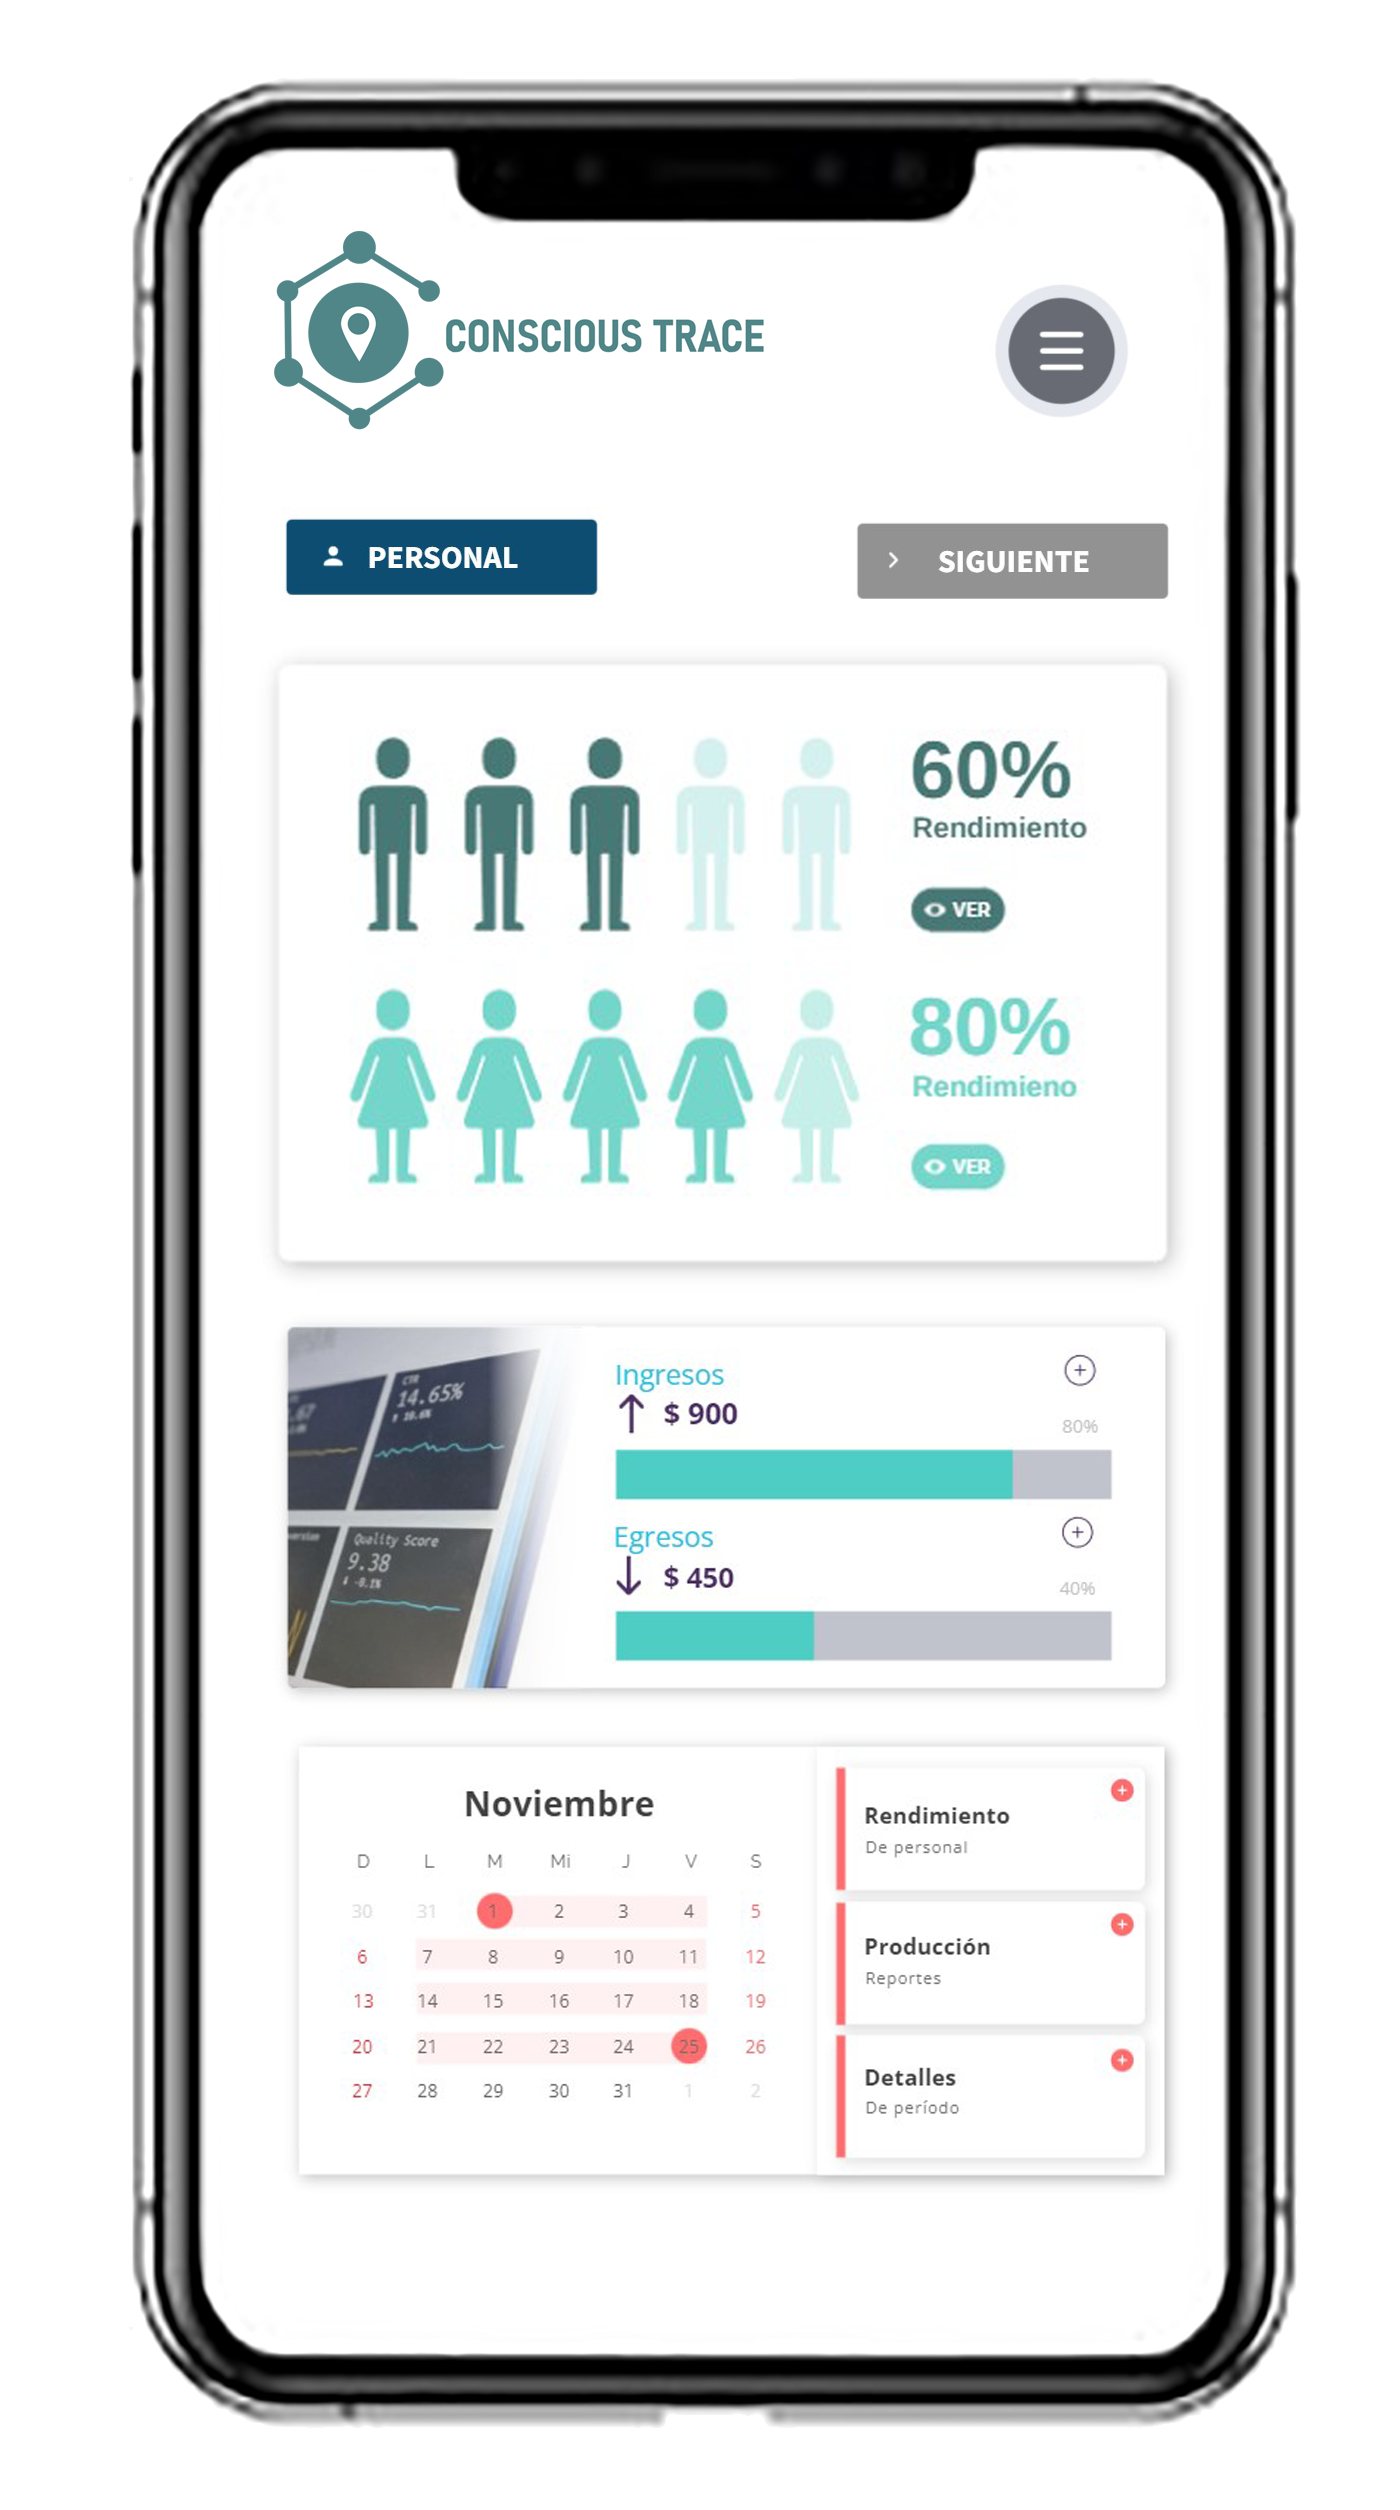
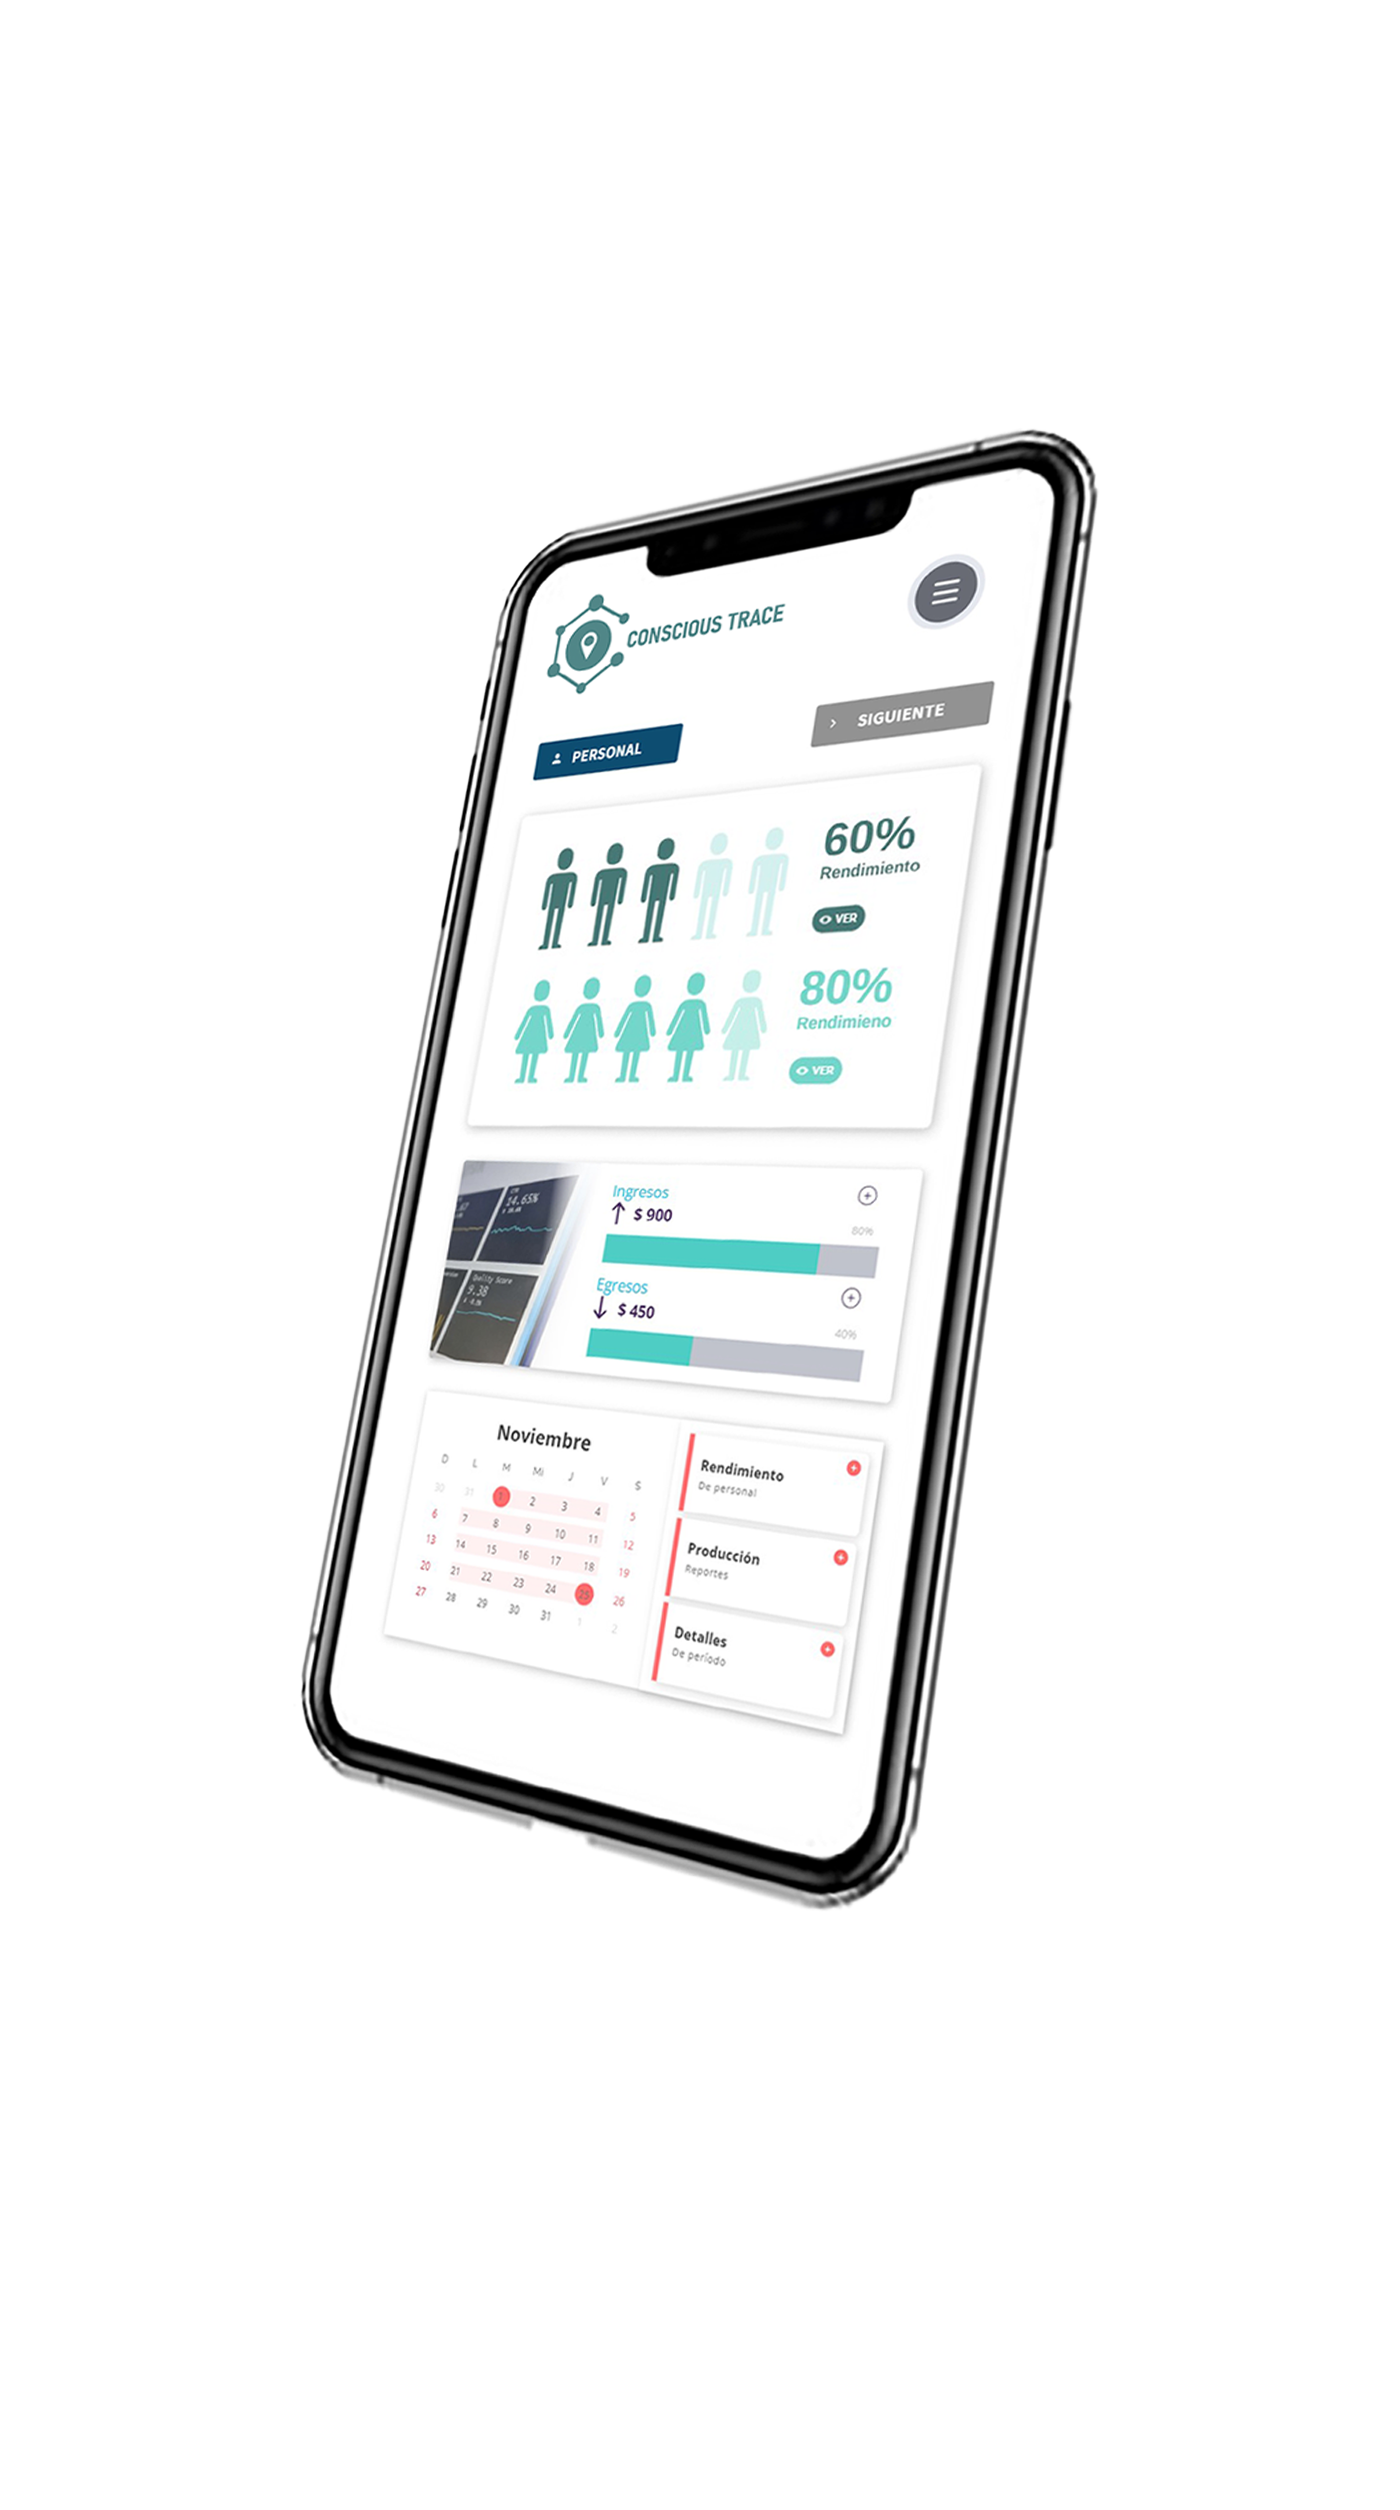
terminado, falta resposive y algunos estilos

Changed region(s): [[0.0921, 0.0311, 0.9521, 0.9633], [0.4607, 0.808, 0.5221, 0.839]]

diff --git a/index.html b/index.html
@@ -34,21 +34,87 @@
             <button class="contact-button">¡Contactanos!</button>
           </div>
           <div>
-            <img class="celular" src="./img/cel.png" alt="celular">
+            <img class="celular" src="./img/cel2.png" alt="celular">
           </div>
         </article>
 
+        <!--Inicio nosotros-->
         <article id="nosotros">
-          <h2 class="conocenos">¡Conocenos un poco más!</h2>
-          <img class="medium nosotrosimg" src="img/nosotros.png" alt="nosotros">  
-            <p class="nosotros-p">
-              Somos una startup que inició en el 2020 haciendo trazabilidad sobre su propia línea de productos outdoor sustentables; comunicando quién, dónde, cuándo y con que materiales se realizaron los productos.
-            </p>
-            <p>
-              Creemos que mejores sociedades se construyen con más transparencia y la información es la herramienta que permite visibilizar y generar oportunidades a los trabajadores y potenciar a los empleadores de cada comunidad.
-            </p>
-        </article>  
+          <h2 class="h2-nosotros">¡Conocenos un poco más!</h2>
+          <div class="nosotros-container">
+            <div>
+              <img class="medium nosotrosimg" src="img/nosotros.png" alt="nosotros"> 
+            </div> 
+            <div class="nosotros-texto1">
+              <p class="nosotros-p">
+                Somos una startup que inició en el 2020 haciendo trazabilidad sobre su propia línea de productos outdoor sustentables; comunicando quién, dónde, cuándo y con que materiales se realizaron los productos.
+              </p>
+              <hr class="linea-azul">
+              <p class="nosotros-p">
+                Creemos que mejores sociedades se construyen con más transparencia y la información es la herramienta que permite visibilizar y generar oportunidades a los trabajadores y potenciar a los empleadores de cada comunidad.
+              </p>
+            </div>
+          </div>
+            <div class="nosotros-container">
+              <p class="nosotros-p2">
+                Empezamos a incubarnos en FIDE( Fundación para la Incubación de Empresas) en 2020, luego pasamos por procesos de mentorías, pre-incubación y aceleradoras tales como Drimcom, programa We-Start, el Cluster Tecnológico Córdoba y actualmente formamos parte del Cluster de Economía Circular.
+              </p>
+              <div>
+                <img class="medium empresaimg" src="img/empresa.png" alt="nosotros"> 
+              </div> 
+            </div>
+          <div class="alianzas-contenedor">
+            <h3 class="h3-nosotros">Además, nos apoyan:</h3>
+            <div class="alianzas-img">
+              <img src="img/alianzas1.png" alt="alianzas1">
+              <img src="img/alianzas2.png" alt="alianzas2">
+              <img src="img/alianzas3.png" alt="alianzas3">
+              <img src="img/alianzas4.png" alt="alianzas4">
+              <img src="img/alianzas5.png" alt="alianzas5">
+              <img src="img/alianzas6.png" alt="alianzas6">
+            </div>
+          </div>
+        </article>
+        <!--Fin nosotros-->
 
+        <!--Inicio trazabilidad-->
+        <article id="trazabilidad">
+          <div>
+            <h2 class="h2-trazabilidad">Nuestro servicio</h2>
+              <h3>
+                <h3 class="h3-trazabilidad">Ofrecemos 3 alternativas escalables</h3>
+              </h3>
+
+              <div class="container-servicio">
+                  <img class="item-servicio" src="/img/Frame 16.png" alt="frame16">
+                  <img class="item-servicio" src="img/Frame 17.png" alt="frame17">
+                  <img class="item-servicio" src="img/Frame 18.png" alt="frame18">
+              </div>
+            </div>
+
+              <div>
+                <h3 class="h3-trazabilidad2">Contamos con Tecnología Blockchain</h3>
+              </div>
+          <div class="container-servicio2">
+            <p class="trazabilidad-p">
+              Utilizamos códigos QR para realizar el registro, desde la carga de la orden de producción hasta la etiqueta que acompaña el producto a lo largo de su vida, cada dato generado en cada etapa del proceso se registra y se le asigna un bloque de información que es altamente inmutable.
+            </p>
+            <div>
+              <img class="medium remeraimg" src="img/etiqueta.png" alt="nosotros"> 
+            </div> 
+          </div>
+          <div>
+            <h2 class="h2-trazabilidad">¿Cómo lo implementamos?</h2>
+            <div class="container-servicio">
+              <img class="item-servicio" src="/img/Frame 19.png" alt="frame16">
+              <img class="item-servicio" src="img/Frame 20.png" alt="frame17">
+              <img class="item-servicio" src="img/Frame 21.png" alt="frame18">
+          </div>
+          </div>
+          
+
+        </article>
+        <!--Fin trazabilidad-->
       </section>
     </main>
     <!--Inicio footer-->

diff --git a/estilos/style.css b/estilos/style.css
@@ -23,8 +23,14 @@ a {
   color:white;
   text-decoration: none;
 }
+
 a:hover {
   color: var(--primary); 
+}
+
+.medium{
+  width:280px;
+  height:280px;
 }
 
 
@@ -35,6 +41,8 @@ a:hover {
   align-items: center;
   justify-content: space-around;
   box-shadow: 0px 1px 2px rgba(235, 235, 235, 0.15);
+  /* width:100%; */
+  /*agregue width del navbar para ver si se corregia lo de la foto del fondo*/
 }
 
 .logo{
@@ -64,14 +72,15 @@ a:hover {
 }
 
 .celular{
-  width: 45%;
-  transform: rotate(20deg);
-  margin-left:30%;
+  width: 50%;
+  transform: rotate(10deg);
+  margin-left:20%;
+  margin-top:5%;
 }
 
 .titulo-index{
   font-style: normal;
-  font-size: 80px;
+  font-size: 75px;
   opacity:1;
 }
 
@@ -99,8 +108,61 @@ a:hover {
     box-shadow: 0 10px 20px rgba(214, 201, 201, 0.2);
 }
 
-.conocenos{
-  font-size:50px;
+#nosotros, #trazabilidad{
+  margin-left:3%;
+  margin-right:3%;
+}
+
+.h2-nosotros, .h2-trazabilidad{
+  font-size:45px;
+  margin-top:7%;
+}
+
+.h2-trazabilidad::after{
+  content:"";
+  position:absolute;
+  width:5%;
+  border:1px solid var(--darkprimary);
+  margin-left:2%;
+  margin-top:2.5%;
+}
+
+.h3-nosotros{
+  margin-top:3%;
+  font-size: 30px;
+  font-style:normal;
+}
+
+.linea-azul{
+  width:5%;
+  border:1px solid var(--darkprimary)
+}
+
+.nosotros-container{
+  display:flex;
+  flex-direction: row;
+  margin-top:1%;
+  align-items: center;
+  justify-content: center; 
+}
+
+.nosotros-texto1{
+  display: flex;
+  flex-direction: column;
+  align-items: center;
+}
+
+.nosotros-p{
+  font-size: 20px;
+  margin: 2% 8%;
+  text-align: justify;
+}
+
+.nosotros-p2{
+  font-size: 20px;
+  margin-left:1%;
+  margin-right:5%;
+  text-align: justify;
 }
 
 .nosotrosimg{
@@ -108,6 +170,85 @@ a:hover {
   box-shadow: 0px -5px 10px rgba(235, 235, 235, 0.25), 0px 5px 25px rgba(235, 235, 235, 0.5);
   margin-left:5%;
 }
+
+.empresaimg{
+  border-radius: 80px 0;
+  box-shadow: 0px -5px 10px rgba(235, 235, 235, 0.25), 0px 5px 25px rgba(235, 235, 235, 0.5);
+}
+
+.alianzas-contenedor{
+  display:flex;
+  flex-direction: column;
+}
+
+.alianza{
+  margin-left:2%;
+}
+
+.alianzas-img{
+  display:flex;
+  flex-direction: row;
+  flex-wrap:wrap;
+  align-items: center;
+  justify-content: space-between;
+  margin:3%;
+}
+
+.h3-trazabilidad, .h3-trazabilidad2{
+  font-size: 30px;
+  font-style: normal;
+}
+
+.h3-trazabilidad2{
+  margin-top:10%;
+}
+
+.h3-trazabilidad2::after{
+  content:"";
+  position:absolute;
+  width:5%;
+  border:1px solid var(--darkprimary);
+  margin-left:2%;
+  margin-top:1.5%;
+}
+
+
+.container-servicio{
+  margin-top:3%;
+  display:flex;
+  flex-direction: row;
+  flex-wrap: wrap;
+  align-items: center;
+}
+
+.container-servicio2{
+  display:flex;
+  flex-direction: row;
+  align-items: center;
+}
+
+.item-servicio{
+  width:25%;
+  margin-left:5%;
+}
+
+.trazabilidad-p{
+  font-size: 20px;
+  margin-top:2%;
+  margin-right:12%;
+  text-align: justify;
+}
+
+.remeraimg{
+    border-radius: 80px 0;
+    box-shadow: 0px -5px 10px rgba(235, 235, 235, 0.25), 0px 5px 25px rgba(235, 235, 235, 0.5);
+}
+
+
+/* .trazabilidad-titulo{
+  display:flex;
+  flex-direction: row;
+} */
 
 .container-contacto{
   margin-left:1%;
